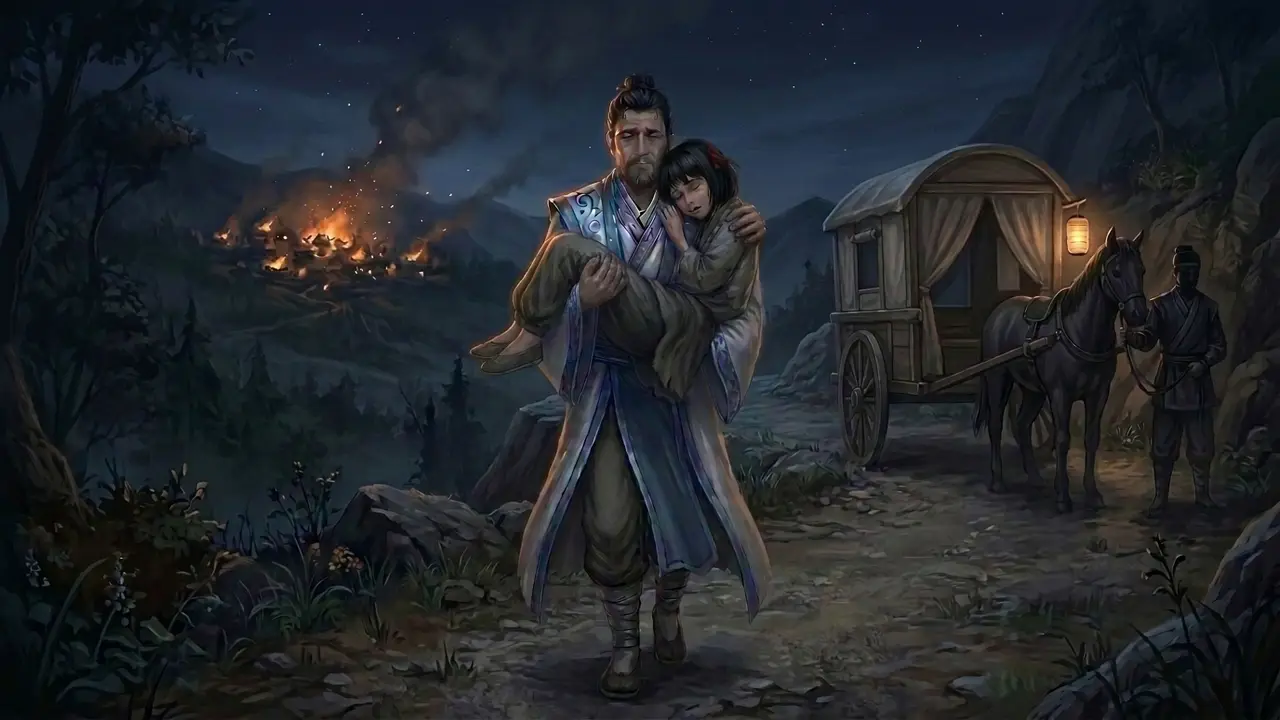
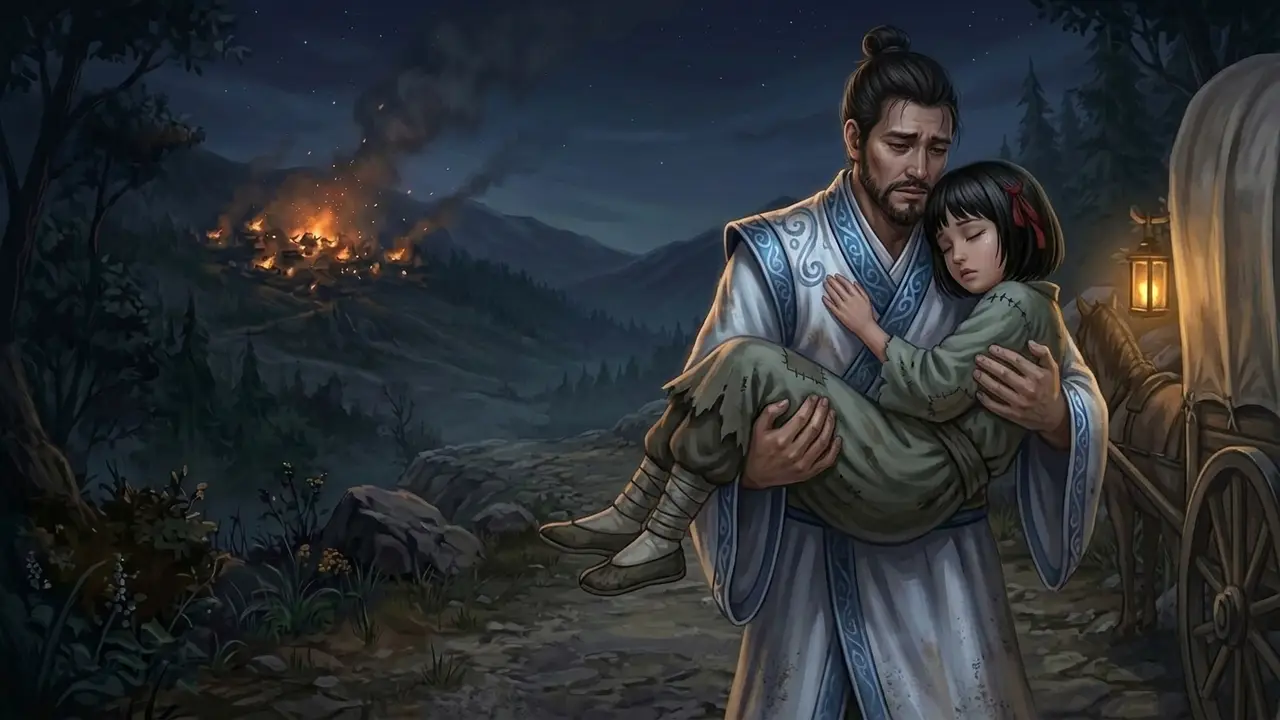
s5: a clean cradle carry, walking away from the fire
Painted fresh rather than edited: Namgung carries sleeping Seo-yeon with one
hand under her knees and one on her back, toward his wagon, the village
burning behind him. Phone focus follows them.

Claude-Session: https://claude.ai/code/session_01P4akAbQXAZGQB5xA6BG5Vv

diff --git a/game/js/ch1.js b/game/js/ch1.js
@@ -333,7 +333,7 @@
   // What a phone held upright keeps in frame (js/vn.js, focus), as a percentage across the still; the rest are
   // centred. Each c still shares its shot's focus, so the glitch cut only changes the person.
   const FOCUS = { m1: 40, m2: 45, m2b: 48, m2c: 48, m3: 34, m3a: 55, m3c: 55, k1: 52, k2: 70, k2b: 48, k2c: 66, k3: 70,
-    k3a: 47, k3c: 47, s0a: 39, s0b: 73, s2: 46, s3: 57, s6: 23, s7a: 79, s7c: 79, d1: 40, d1b: 45, d1c: 45, d2: 42, d3: 36 };
+    k3a: 47, k3c: 47, s0a: 39, s0b: 73, s2: 46, s5: 79, s3: 57, s6: 23, s7a: 79, s7c: 79, d1: 40, d1b: 45, d1c: 45, d2: 42, d3: 36 };
   // Freya comes to Mira in a dream (the Story Bible), so her kitchen shots play through a dream haze.
   const DREAM = ['m3', 'm3a', 'm3c'];
   SD.vn.addScenes(Object.fromEntries(Object.entries(STILL).map(([id, label]) => [id, { src: 'assets/img/vn/' + id + '.webp', label,
